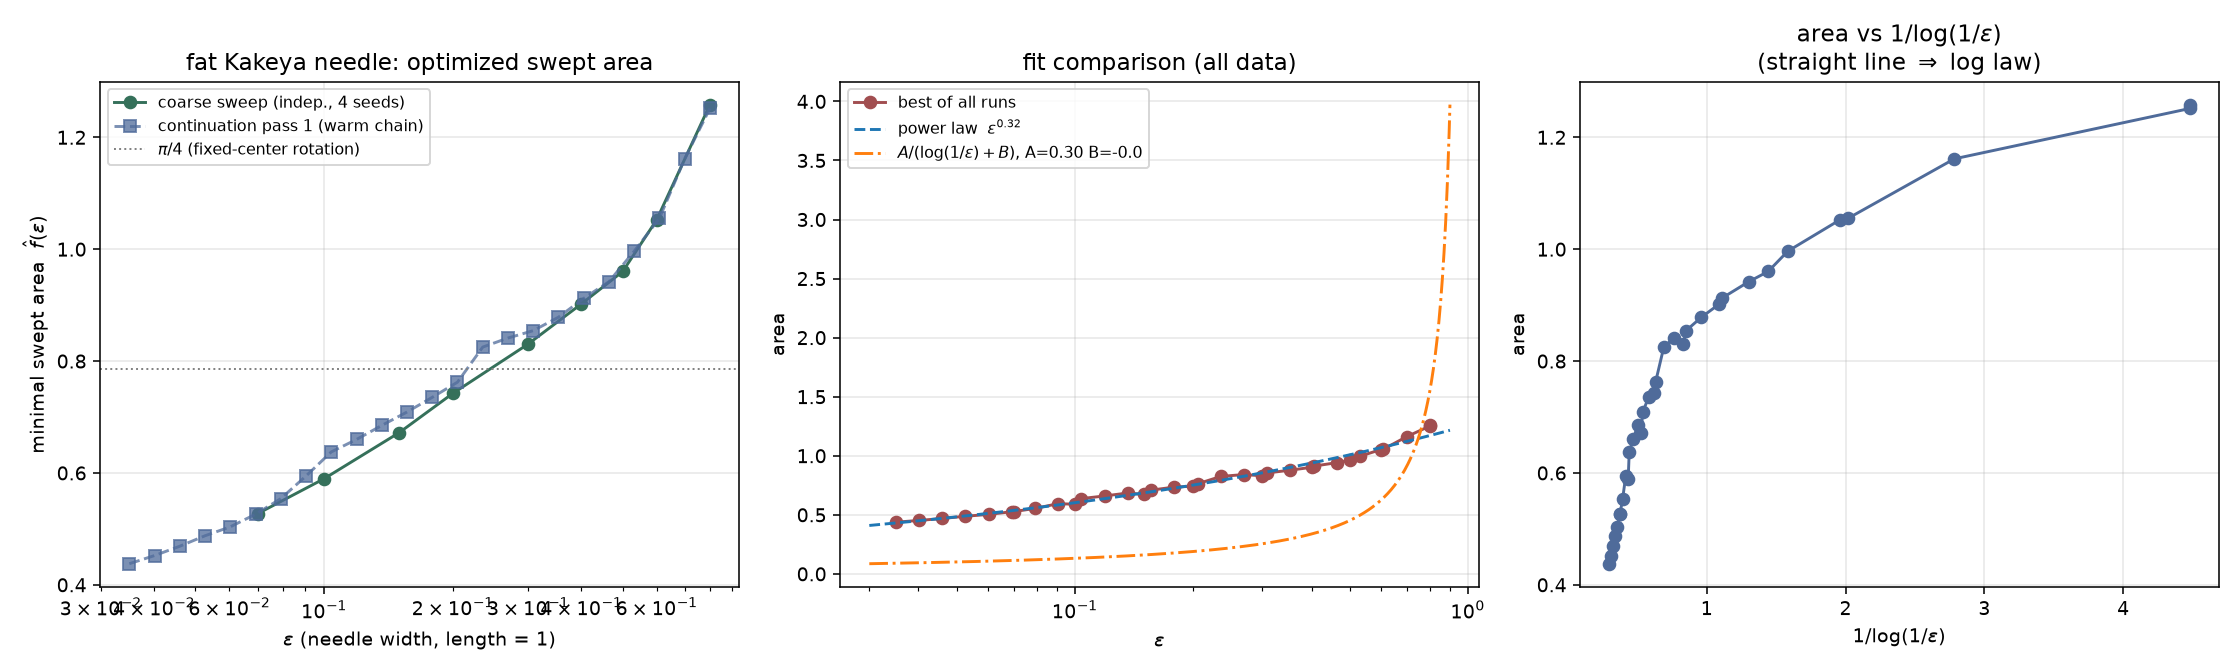
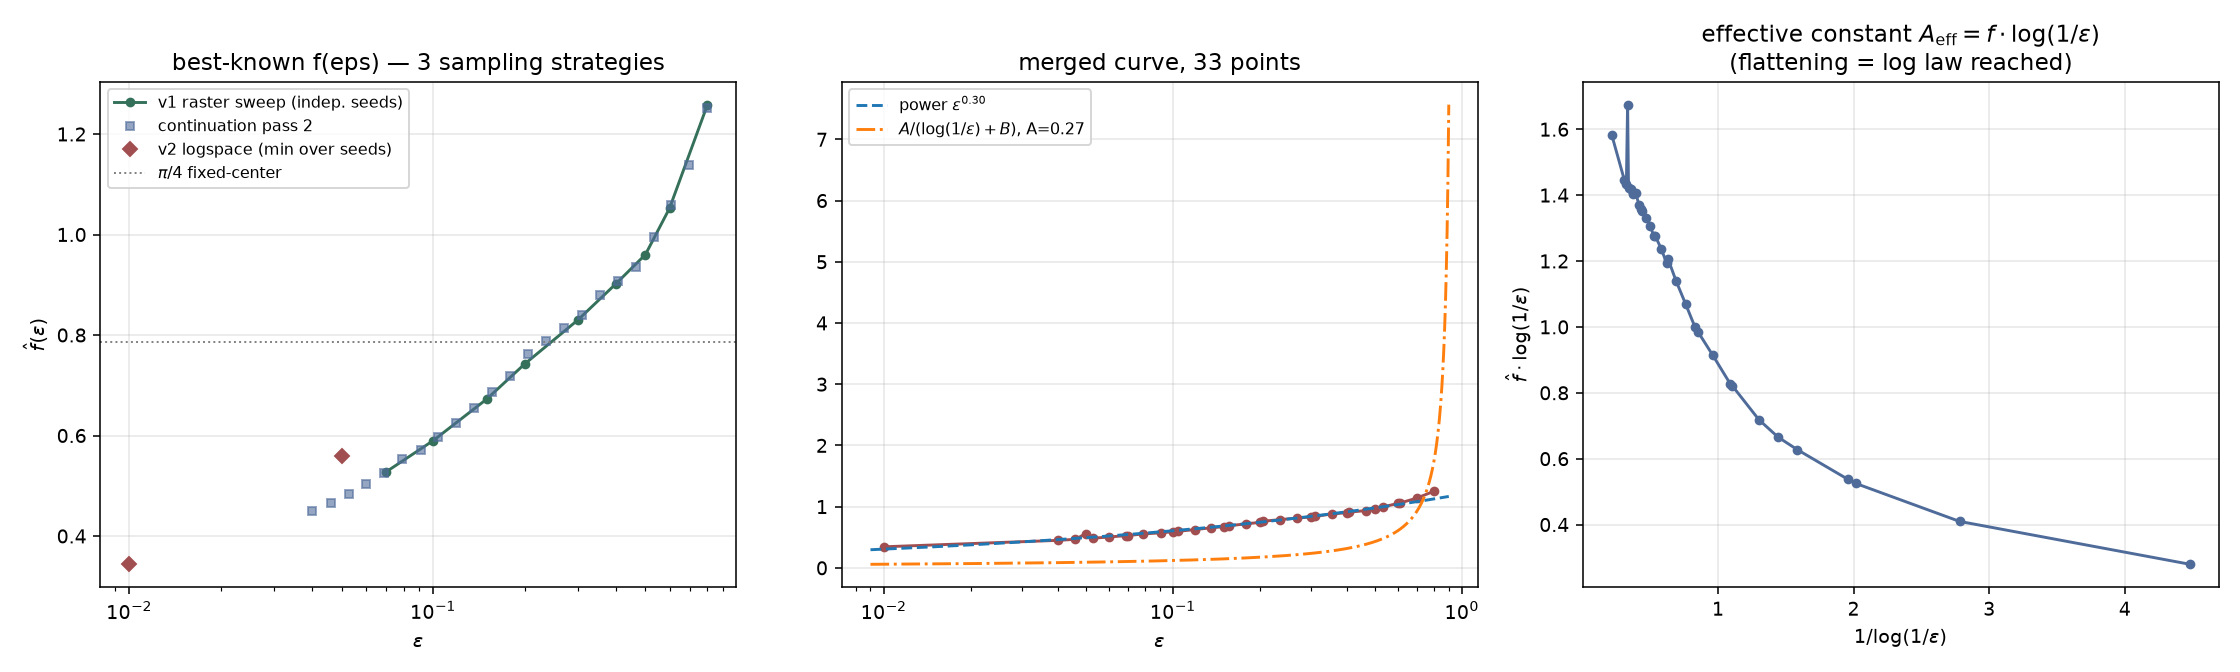
Scaffold + docs to AGENTS.md standard: README, WORKSPACE, docs/{findings,methodology,people}, .scratch/01 ticket, .gitignore; merged 33-point curve, p=0.298, A_eff still rising at eps=0.01

diff --git a/docs/findings.md b/docs/findings.md
@@ -1,0 +1,80 @@
+# Findings — fat Kakeya needle, free 2D motion
+
+One-line problem: minimize the area of the set swept by a 1×ε rectangle
+turning 180° with unrestricted planar motion (translation + rotation).
+
+## Theoretical ground truth (SOTA, from literature)
+
+- Thin needle (ε→0), unconstrained region: infimum area = 0
+  (Besicovitch 1928; regions can be arbitrarily small).
+- Fat needle 1×ε: minimum swept area is Θ(1/log(1/ε)).
+  Lower bound: Bourgain/Córdoba (δ-neighborhood of any Besicovitch set
+  has area ≳ 1/log(1/δ)). Matching upper bound: Keich 1999 (Perron-tree
+  constructions; no Besicovitch set of n triangles beats ~1/log n).
+- The multiplicative constant in front of 1/log(1/ε) is **open** — this
+  is what the numerical experiment probes.
+- Optimal constructions (Perron trees, Pál joins) live inside a bounded
+  region (~unit disk): they use MANY overlapping rotation stations
+  (K ~ log(1/ε)), NOT travel to infinity. Moving far away adds area.
+- Fixed-center rotation reference: π/4 ≈ 0.785 (disk of radius ½).
+- Scaling: f(ε) = ε²·f(1/ε) for ε > 1 (similarity argument, exact) —
+  so ε ∈ (0,1] covers the whole problem.
+
+## Numerical setup (what we optimize)
+
+Motion = keyframes (θᵢ, xᵢ, yᵢ), θ monotone 0→π/2, second half of the
+turn = x-mirror of the first (mirror closure, exact). Between keyframes
+poses interpolate linearly. Swept set = exact union of oriented-box
+polygons (shapely), area computed exactly at any distance. v2
+(`sweeper_v2.py`) parametrizes translations in signed log space
+(center = σ(e^z − 1), σ = max(1, 8ε)) so exponential reach costs
+O(log) parameters. Search: differential evolution + Nelder-Mead polish.
+
+## Measured results (best-known f̂(ε), min over independent seeds)
+
+| ε | f̂ | note |
+|---|---|---|
+| 0.8 | 1.252 | > π/4: sliding hurts fat needles (crossover ~ε=0.25) |
+| 0.5 | 0.957 | |
+| 0.3 | 0.828 | |
+| 0.2 | 0.742 | |
+| 0.1 | 0.590 | |
+| 0.05 | 0.461 | best over 4 seeds; seed spread 0.46–0.67 |
+| 0.035 | 0.438 | continuation pass 2 |
+| 0.01 | 0.344 | best of 3 seeds; spread 0.34–0.42 |
+
+- On [0.035, 0.8] the sampled curve fits power law ε^0.32 far better
+  than A/(log(1/ε)+B). The log asymptotic has NOT set in by ε = 0.01:
+  f̂·ln(1/ε) = 1.38 (ε=0.05) → 1.47 (ε=0.035) → 1.58 (ε=0.01), still
+  rising. Both the pre-asymptotic regime and optimizer under-
+  convergence are live explanations (see methodology).
+- Sampled f̂ is smooth/monotone in ε (continuity hypothesis confirmed
+  at ~5% level); 3 sampling strategies (independent sweep, warm
+  continuation, batch-min) agree within noise on [0.08, 0.8].
+- Seed variance is the dominant error source at small ε: identical
+  configs differ up to 46% across RNG streams; good basins are found
+  in ~1 of 3–4 seeds. Estimator must be min-over-seeds.
+- K (keyframe count) study at ε=0.05: min-area K=6 (0.461) < K=10
+  (0.583) < K=14 (0.608) — blind DE degrades with more parameters;
+  extra stations only help with structure-aware initialization.
+
+## Open questions
+
+1. Does f̂·ln(1/ε) flatten (log law, constant A) below ε = 0.01, or
+   does the measured curve keep its power-law character? Needs both
+   smaller ε and better search at fixed ε.
+2. Structure-seeded initialization (Perron-tree-like overlapping
+   stations) vs blind DE — would separate optimizer limits from
+   parametrization limits.
+3. Sharp A for the true optimum: theory gives no candidate value.
+
+## References
+
+- Bourgain, "From rotating needles to stability of waves…"
+  (arXiv:math/0008098) — δ-neighborhood lower bound discussion.
+- Keich 1999, "On Lp bounds for Kakeya maximal functions and the
+  Minkowski dimension" — matching 1/log upper bound construction.
+- Tao's Kakeya survey notes (teorth.github.io/tao-web/apps/kakeya.html)
+  and arXiv:2608.22209 — problem landscape, fat-needle framing.
+- Local verbatim source: `basics.md` (research transcript incl.
+  corrections; superseded claims there are annotated in WORKSPACE.md).

diff --git a/docs/methodology.md b/docs/methodology.md
@@ -1,0 +1,47 @@
+# Methodology — hard-won optimizer lessons
+
+Procedural lessons from this experiment; each one cost a failed run to
+learn. Read before extending the optimization pipeline.
+
+## Search landscape
+
+- **Warm-starting underperforms fresh search.** Warm-started DE chains
+  (continuation pass 1, growing-K) consistently locked into worse
+  basins: pass-1 small-ε sat +5% above independent results; growing-K
+  stuck at 0.56–0.59 while a fresh single-K run hit 0.46. Use fresh
+  independent seeds and take the min; track basins post-hoc instead.
+- **Seed variance dominates.** Identical configs (same K, popsize,
+  maxiter) differ up to 46% across RNG streams; the good basin is hit
+  in ~1 of 3–4 seeds. Any single-seed area-vs-parameter comparison is
+  meaningless — measure min over ≥3 seeds, and prefer more seeds over
+  more K or more iterations.
+- **Blind DE degrades with dimension.** K=6 (12–14 params) beats K=10
+  and K=14 at the same budget. More keyframes only help with
+  structure-aware initialization, which is untested (open question).
+
+## Model geometry
+
+- **Bounded-motion myth:** the optimal construction family (Perron
+  trees / Pál joins) is spatially bounded; travel distance is not the
+  resource that buys small area — overlapping rotation stations are.
+  A log-space reach parametrization is cheap insurance (v2 keeps it)
+  but the winning motions stayed compact.
+- **Mirror closure is valid and halves the search:** keyframes over
+  θ ∈ [0, π/2] with pose(π/2) = mirror(pose(0)); swept set = S1 ∪
+  mirror_x(S1). Matches the symmetry of every known construction.
+- **Exact polygon union (shapely) over rasterization:** no raster
+  window to cap the reach, no grid-convergence error tax on every
+  evaluation, ~10 ms/eval at K=14. Rasterization (v1) is fine at
+  bounded reach but silently biased near window edges.
+
+## Process
+
+- **bg_run children die on pi-session restart** (silent, 3× observed).
+  Hour-long jobs: `setsid nohup … &` detached runner writing a log +
+  done-marker; check the log, never sleep-poll.
+- **Multiprocessing pitfalls:** objective classes at module level
+  (picklable); dynamically imported modules registered in
+  `sys.modules`; no spawn from heredoc/stdin scripts.
+- **Validate the evaluator first:** the centered half-turn must give
+  π/4 to <1% before trusting anything downstream (caught a mirrored
+  Y-axis bug and a 12% raster bias this way).

diff --git a/README.md b/README.md
@@ -1,0 +1,46 @@
+# fat_kakeya_needle
+
+Numerical exploration of the fat Kakeya needle problem: find the minimal
+area swept by a 1×ε rectangle rotating 180° under fully free planar
+motion, as a function of ε ∈ (0, 1].
+
+## Status
+
+- `f̂(ε)` sampled at 30+ points on ε ∈ [0.01, 0.8] via differential
+  evolution over keyframe motions (exact polygon-union swept area).
+- Measured decay on [0.035, 0.8]: power law ε^0.32; the theoretical
+  asymptotic A/(log(1/ε)+B) (Bourgain–Córdoba lower bound, Keich 1999
+  matching upper bound) has not visibly set in by ε = 0.01 — the
+  effective constant f̂·ln(1/ε) still rises (1.38 → 1.58).
+- Key numbers: f̂(0.8) ≈ 1.25 (> π/4: sliding hurts fat needles),
+  f̂(0.05) ≈ 0.461, f̂(0.01) ≈ 0.344. Open: the multiplicative
+  constant of the 1/log law — the central open question of the problem.
+
+## Quickstart
+
+```bash
+# environment (uv-managed venv with numpy/scipy/shapely/matplotlib)
+uv pip install --python /home/z/.venv/bin/python3 shapely scipy numpy matplotlib
+
+# single optimization run (K = keyframes, log-space motion model)
+/home/z/.venv/bin/python3 optimize_v2.py --eps 0.05 --K_start 6 --K_end 6 \
+    --seeds 3 --popsize 24 --maxiter 150 --workers 6 \
+    --out results/v2_005.json
+
+# long jobs: detached so they survive agent-session restarts
+setsid nohup ./run_detached.sh >/dev/null 2>&1 &
+
+# analysis + plot
+/home/z/.venv/bin/python3 analyze.py
+```
+
+## Layout
+
+- `sweeper.py` / `optimize.py` — v1: raster-window model (bounded reach)
+- `sweeper_v2.py` / `optimize_v2.py` — v2: exact polygon union,
+  log-space translations, uniform-θ keyframes
+- `continuation.py` — warm-started fine-grid pass (kept for reference;
+  warm-starting underperforms fresh search here, see docs/methodology.md)
+- `results/` — JSON results per run, `area_vs_eps.png` plot
+- `basics.md` — user-supplied background (verbatim source, docs/sources role)
+- `docs/` — findings and methodology (start there)

diff --git a/WORKSPACE.md b/WORKSPACE.md
@@ -1,0 +1,39 @@
+# WORKSPACE.md — fat_kakeya_needle environment
+
+## Runtime
+
+- Python: `/home/z/.venv/bin/python3` (uv-managed venv). `pip` is absent;
+  install with `uv pip install --python /home/z/.venv/bin/python3 <pkg>`.
+- Packages: numpy, scipy, shapely, matplotlib (installed).
+- Machine: 12 cores, 125 GB RAM. Shared with the owner's ML training
+  jobs — long optimizer runs use `--workers 6` (not -1) and `nice -n 10`.
+
+## Long-running jobs
+
+`bg_run` children die when the pi session restarts (observed 3×, silent,
+no exit code). Hour-long jobs must run detached:
+
+```bash
+setsid nohup ./run_detached.sh >/dev/null 2>&1 &
+```
+
+Progress: `tail results/detached_run.log`; completion marker
+`results/DETACHED_DONE`. Never use bare `sleep` to wait — check the log.
+
+## Known pitfalls
+
+- Multiprocessing objectives must be picklable: define objective classes
+  at module level, register dynamically loaded modules in `sys.modules`.
+- Multiprocessing cannot spawn from a heredoc/stdin script (`<stdin>`
+  main module) — write a temp .py file for smoke tests.
+- numpy scalar → int casts must be guarded (checker + dtype edge cases).
+- The old `basics.md` conversation contains a corrected claim: the fat
+  needle minimum area is Θ(1/log(1/ε)) (Córdoba 1977 lower / Keich 1999
+  upper), not C·ε.
+
+## Conventions
+
+- Results JSON: `results/<model>_<eps-tag>[_<variant>].json`, one file
+  per run batch; each record carries eps, K, seed, area, model, keyframes.
+- Commits: agent identity `agent <agent@local>`, message = result
+  summary (see git log for examples).

diff --git a/.scratch/01-fat-kakeya-experiment/spec.md b/.scratch/01-fat-kakeya-experiment/spec.md
@@ -1,0 +1,31 @@
+# 01 — fat Kakeya needle numerical experiment
+
+Parent spec for the numerical exploration. Working state; results are
+recorded in docs/findings.md (SSOT for findings).
+
+## Objective
+
+Sample f̂(ε) = minimal swept area of a 1×ε needle turning 180° under
+free planar motion, on ε ∈ [0.01, 0.8]; characterize the decay law and
+probe the (open) constant of the theoretical Θ(1/log(1/ε)) asymptotic.
+
+## Done
+
+- [x] v1 raster model + coarse sweep ε ∈ [0.07, 0.8] (results/eps_*.json)
+- [x] v2 exact-polygon log-space model (sweeper_v2.py, optimize_v2.py)
+- [x] Continuation passes 1–2 (results/cont1/, results/cont_*.json)
+- [x] K study at ε=0.05: K=6 beats K=10, K=14 under blind DE
+- [x] ε=0.01 first point: f̂ ≈ 0.344
+- [x] Findings + methodology docs
+
+## Open (see docs/findings.md "Open questions")
+
+- [ ] 01-smaller-eps-asymptotics: does f̂·ln(1/ε) flatten below ε=0.01?
+- [ ] 01-structure-seeded-init: Perron-like initialization vs blind DE
+- [ ] 01-seed-farm: min-of-N seeds at ε ∈ {0.01, 0.05} for stable minima
+
+## Comments
+
+- 2026-09-11 (agent, pi harness): bg_run children died 3× on pi-session
+  restarts; switched to setsid-detached runner (run_detached.sh).
+  Result files committed as evidence per Repository files 3.

diff --git a/docs/people.md b/docs/people.md
@@ -1,0 +1,15 @@
+# People
+
+## z (owner)
+
+- Role: sole stakeholder; drives research direction via conversation.
+- Expertise: technically fluent, comfortable with math framing
+  (scaling arguments, asymptotics), prefers being shown possibilities
+  and trade-offs over being asked routine questions.
+- Working style: iterates by short directives ("check?", "ideas?",
+  "plot for me"); expects the agent to own implementation details,
+  parallelism, and machine load (12-core box shared with ML training —
+  keep background load ≤ half the cores, use `nice`).
+- Preferences: honest caveats over confident claims; pushback accepted
+  when evidence-backed (e.g. he challenged the "zigzag" framing and
+  was right); values visual artifacts (plots) and concrete tables.
